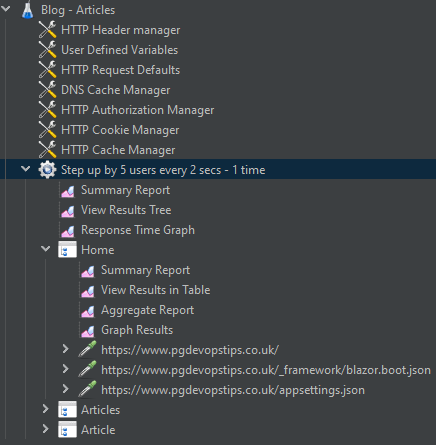
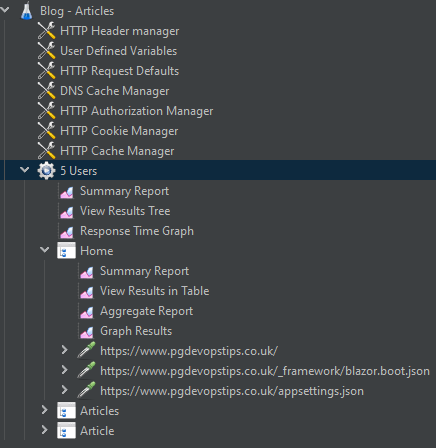
Add performance test with Blaze and JMeter article

Changed region(s): [[0.0, 0.0, 1.0, 0.9933], [0.5367, 0.3506, 0.6261, 0.409], [0.0, 0.3506, 0.0298, 0.409]]

diff --git a/Blog/Articles/Create a Performance Test with BlazeMeter And JMeter.md b/Blog/Articles/Create a Performance Test with BlazeMeter And JMeter.md
@@ -1,0 +1,146 @@
+---
+title: Create a Performance Test with BlazeMeter and JMeter
+author: Peter Gregg
+description: Create a Performance Test with BlazeMeter and JMeter
+image: https://dummyimage.com/800x600/000/fff&text=placeholder
+thumbnail: https://dummyimage.com/200x200/000/fff&text=placeholder
+type: article
+status: draft
+published: 2022/05/17 08:00:00
+categories: 
+  - Performance
+  - BlazeMeter
+  - JMeter
+  - Command Line
+---
+
+
+# Create a Performance Test with BlazeMeter and JMeter
+
+In this article, you will learn how to create a performance test with BlazeMeter and JMeter.
+
+## Prerequisites
+
+The following prerequisites will be required to complete this tutorial:
+- BlazeMeter browser extension. If you don't already have it,   [add the BlazeMeter extension to your browser](https://chrome.google.com/webstore/detail/blazemeter-the-continuous/mbopgmdnpcbohhpnfglgohlbhfongabi) 
+- A BlazeMeter account. If you don't have a BlazeMeter account,  [create one for free](https://auth.blazemeter.com/auth/realms/blazect/login-actions/registration?client_id=blazemeter&tab_id=7GOVEWaplBc) before you begin.
+- JMeter. If you don't have JMeter installed, [download JMeter](https://jmeter.apache.org/download_jmeter.cgi). 
+
+## Create a performance test script using BlazeMeter
+
+This section details how to create a performance test script using BlazeMeters browser extension.
+
+1. Select the 
+![BlazeMeter Logo](https://raw.githubusercontent.com/petergregg/Content/main/Blog/Images/BlazeMeterLogo.png) **Icon** in your browser.
+2. In the **Test name** box, enter a name for the test. Select the **Record** button, to start recording. 
+
+    ![BlazeMeter Logo](https://raw.githubusercontent.com/petergregg/Content/main/Blog/Images/BlazeMeterCreateTest.png)
+
+3. Select the **Add Step** button, to add steps for each action. When finished, select the **Stop** button.
+
+    ![BlazeMeter Logo](https://raw.githubusercontent.com/petergregg/Content/main/Blog/Images/BlazeMeterCreateTestSteps.png)
+
+> [!NOTE] 
+> When the script is saving the **BlazeMeter icon** will blink. 
+
+4. Select **Edit**, and then **JMeter Script...** (If not logged in to BlazeMeter, you will need to be for the next steps).
+
+    ![BlazeMeter Logo](https://raw.githubusercontent.com/petergregg/Content/main/Blog/Images/BlazeMeterExportJMeterScriptStep1.png)
+5. Select **JMeter & Selenium comibined (YAML)**, and then select **Save**.
+
+    ![BlazeMeter Logo](https://raw.githubusercontent.com/petergregg/Content/main/Blog/Images/BlazeMeterExportJMeterScriptStep2.png)
+
+6. Select the **.JMX** button to export the JMeter script.
+
+    ![BlazeMeter Logo](https://raw.githubusercontent.com/petergregg/Content/main/Blog/Images/BlazeMeterExportJMeterScriptStep3.png)
+
+## Run the performance test in JMeter
+
+This section details how to run a performance test script in JMeter that was created and exported in BlazeMeter.
+
+1. In Microsoft Windows, **Open** the bin folder of JMeter and run the **jmeter.bat** batch file.
+
+    ![BlazeMeter Logo](https://raw.githubusercontent.com/petergregg/Content/main/Blog/Images/JMeterRunOnWindows.png)
+
+2. In the upper-left of the screen, select **File** > **Open**.
+
+    ![BlazeMeter Logo](https://raw.githubusercontent.com/petergregg/Content/main/Blog/Images/JMeterOpenBlazeMeterJMeterScriptStep1.png)
+
+3. On the **Open** screen, select the **Script**, and then select **Open**. 
+
+    ![BlazeMeter Logo](https://raw.githubusercontent.com/petergregg/Content/main/Blog/Images/JMeterOpenBlazeMeterJMeterScriptStep2.png)
+
+    
+3. In the **Test Plan**, select the **Thread Group**. This is where you enter the essential information required for the performance test. Enter the following values:
+
+    ![BlazeMeter Logo](https://raw.githubusercontent.com/petergregg/Content/main/Blog/Images/JMeterBlazeMeterThreadGroup.png) 
+
+    | Field | Value | Description |
+    | --- | --- | --- |
+    | Name | 5 Users | Name of the Thread Group |
+    | Comments |  | Comment related to the Thread Group |
+    | Action to be taken after a Sampler error | Continue | Continue with the test when an error occurs |
+    | Number of Threads (users) | 5 | Mimics the number of user(s) or connection(s) to an application |
+    | Ramp-up period (seconds) | 10 | Time to create all of the threads (or how frequent requests should be sent by users) |
+    | Loop Count | 1 | Number of times the test will repeat for the thread group (or quantity of requests that should be sent) |
+    | Same user on each iteration | Checked | If checked and the Test Plan utilises HTTP Cookie Manager - cookies returned in the first response for subsequent requests will be used |
+    | Delay Thread Creation until needed | Unchecked | If checked it stops JMeter allocating memory for all threads (users) when the performance test starts |
+    | Specify Thread lifetime | Unchecked | Specify a duration and startup delay |
+    | Duration (seconds) | 0 | Specify a duration for the whole test |
+    | Startup delay (seconds) | 0 | Delay time before a thread is started |
+
+### Add Listeners 
+
+4. In the **Test Plan**, right-click the **Thread Group**, select **Add** >  **Listener** > **Summary Report**.
+
+    ![BlazeMeter Logo](https://raw.githubusercontent.com/petergregg/Content/main/Blog/Images/JMeterThreadGroupAddListener.png) 
+
+5. In the **Test Plan** follow step 4 above to add the following listeners to the  **Thread group** and each **Transaction controller**.
+
+    | Test Plan Area | Listener | 
+    | --- | --- | 
+    | Thread Group | Summary Report | 
+    | Thread Group | View Results Tree | 
+    | Thread Group | Reponse Time Graph | 
+    | Transaction Controller | Summary Report | 
+    | Transaction Controller | View Results in Table | 
+    | Transaction Controller | Aggregate Report | 
+    | Transaction Controller | Graph Results | 
+
+    ![BlazeMeter Logo](https://raw.githubusercontent.com/petergregg/Content/main/Blog/Images/JMeterThreadGroupAddListeners.png) 
+
+### Running the Performance test and Analyse Results
+
+6. In the JMeter screen, select the ![JMeter Start button](https://raw.githubusercontent.com/petergregg/Content/main/Blog/Images/JMeterGUIStartPerformanceTest.png) button.
+
+    Once running, a green indicator icon will appear in the top right of the Control Panel. JMeter will ramp up the total number of active threads to 5 in approximately 10 seconds with a delay of 2 secs between subsequent threads. The inidicator box will turn to grey when the test is complete. 
+
+7. When the performance test has completed. Select the **Summary Report** listener in the **Thread group** to analyse the results.
+
+    ![BlazeMeter Logo](https://raw.githubusercontent.com/petergregg/Content/main/Blog/Images/JMeterThreadGroupSummaryReport.png)
+
+
+
+
+
+
+
+
+
+
+
+
+
+
+
+
+
+
+
+
+
+
+
+
+
+
